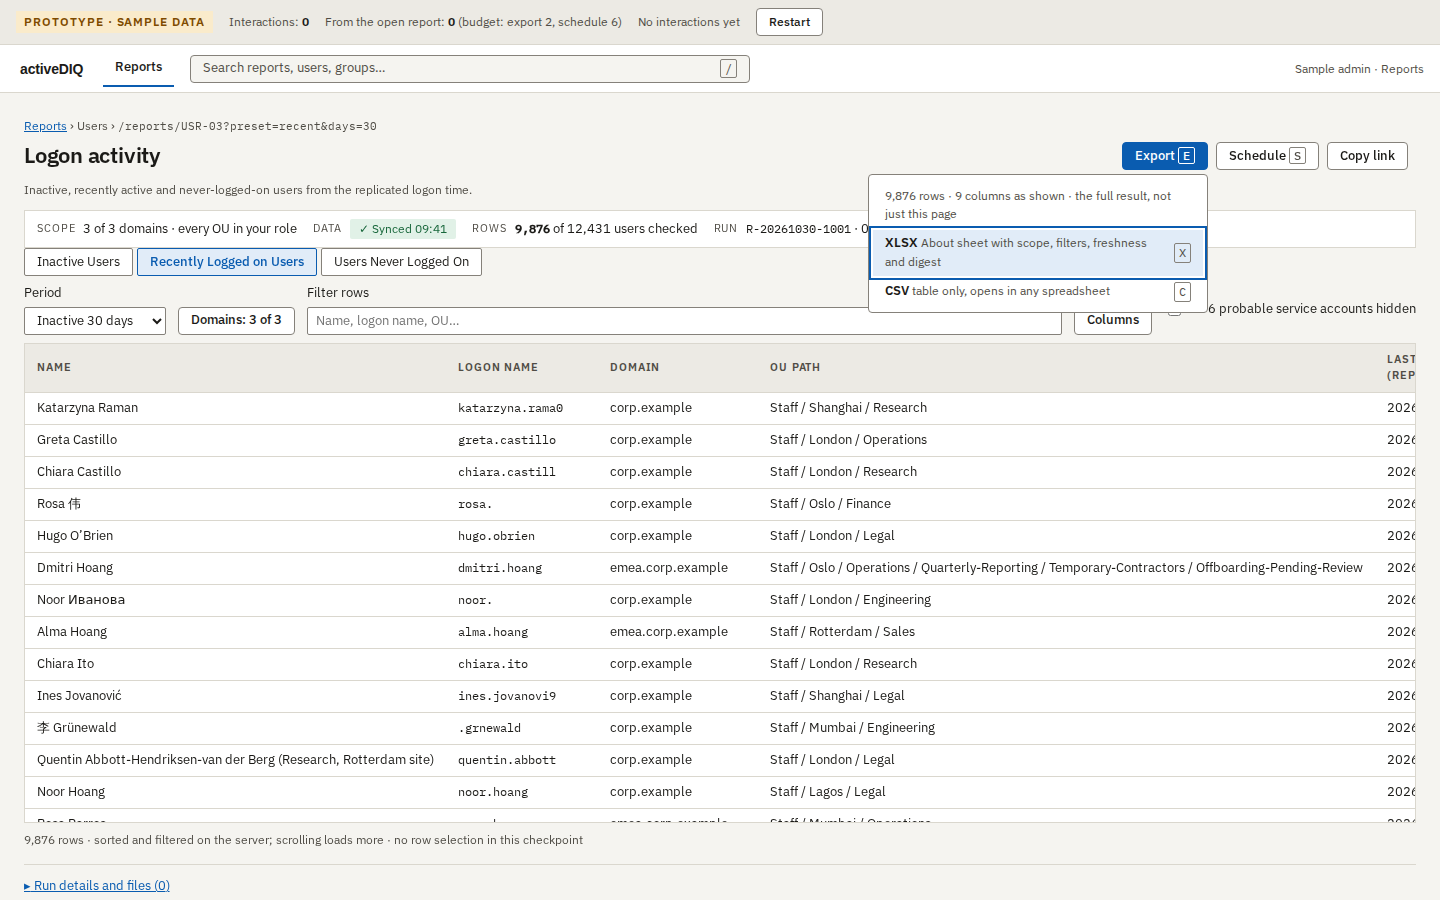
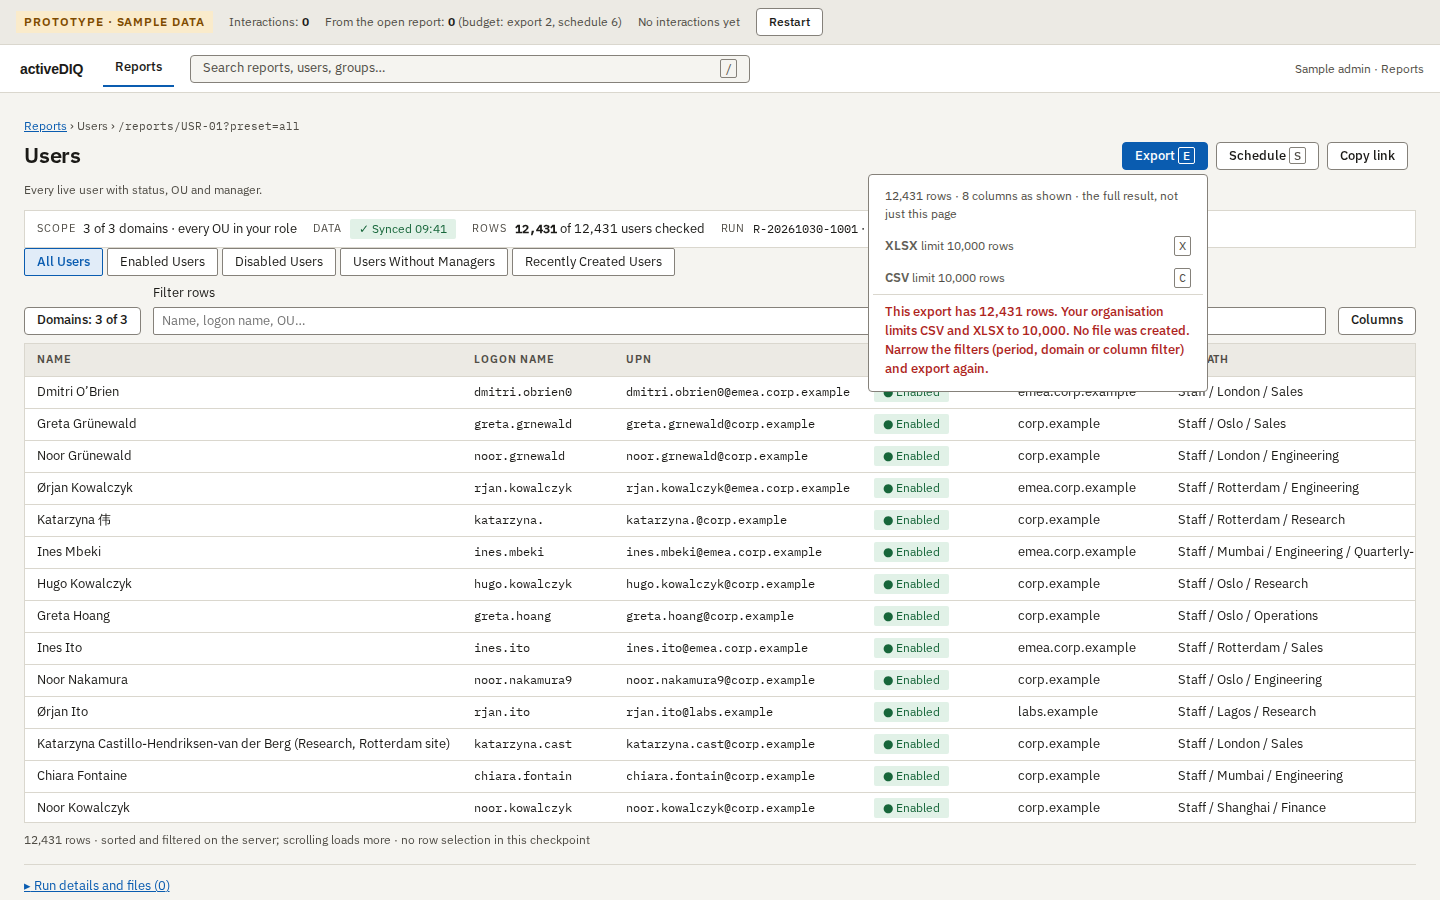
T-0867: draw row cap per format, truly disabled export/schedule without permission, doc and evidence fixes

diff --git a/web/src/prototype/reports/Reports.tsx b/web/src/prototype/reports/Reports.tsx
@@ -72,11 +72,15 @@ export interface Initial {
   readonly forbidden?: boolean;
   readonly unsupportedKind?: string;
 }
+export interface ExportCaps {
+  readonly CSV: number;
+  readonly XLSX: number;
+}
 export interface ReportsProps {
   readonly initial?: Initial;
   readonly perms?: Perms;
-  /** Row cap a tenant has lowered CSV and XLSX to (spec §8.3). Default is the 1,000,000 hard value. */
-  readonly exportCap?: number;
+  /** Row caps a tenant has lowered per format (spec §8.3). Default is the 1,000,000 hard value. */
+  readonly exportCaps?: ExportCaps;
   readonly latencyMs?: number;
 }
 
@@ -150,7 +154,7 @@ function isTyping(t: EventTarget | null): boolean {
 export function Reports({
   initial = {},
   perms = ALL_PERMS,
-  exportCap = 1_000_000,
+  exportCaps = { CSV: 1_000_000, XLSX: 1_000_000 },
   latencyMs = 220,
 }: ReportsProps) {
   const [view, setView] = useState(initial.view ?? "library");
@@ -259,6 +263,9 @@ export function Reports({
     const onKey = (e: KeyboardEvent) => {
       if (isTyping(e.target) || e.ctrlKey || e.metaKey || e.altKey || searchOpen || sheet) return;
       const k = e.key.toLowerCase();
+      // E and S follow their buttons: a disabled button means the key does nothing.
+      const btn = document.querySelector<HTMLButtonElement>(`button[aria-keyshortcuts="${k}"]`);
+      if (btn?.disabled) return;
       if (k === "/" && perms.run) {
         e.preventDefault();
         tick("/ search");
@@ -368,7 +375,7 @@ export function Reports({
             setScenario={setScenario}
             busy={busy}
             perms={perms}
-            exportCap={exportCap}
+            exportCaps={exportCaps}
             menu={menu}
             setMenu={setMenu}
             details={details}
@@ -512,7 +519,7 @@ function LibTabs(props: {
 function Forbidden() {
   return (
     <div className="diq-state diq-state--error" role="alert">
-      <p className="diq-state__title">You don’t have access to reports</p>
+      <h1 className="diq-state__title rp__h1">You don’t have access to reports</h1>
       <p>
         Your role does not include running reports (<span className="diq-mono">reports.run</span>
         ). Ask an administrator to add it to your role. Nothing here was changed.
@@ -777,7 +784,7 @@ interface ViewProps {
   readonly setScenario: (s: Scenario) => void;
   readonly busy: boolean;
   readonly perms: Perms;
-  readonly exportCap: number;
+  readonly exportCaps: ExportCaps;
   readonly menu: "export" | "columns" | "scope" | null;
   readonly setMenu: (m: "export" | "columns" | "scope" | null) => void;
   readonly details: boolean;
@@ -804,7 +811,7 @@ function ReportView(props: ViewProps) {
     setScenario,
     busy,
     perms,
-    exportCap,
+    exportCaps,
     menu,
     setMenu,
     details,
@@ -889,7 +896,6 @@ function ReportView(props: ViewProps) {
   const canSchedule = perms.schedule && !limited;
   const exportName = (ext: string) =>
     `${slugName(report.name)}-${slugName(preset?.name ?? "")}-20261030-0943Z.${ext}`;
-  const over = rows.length > exportCap;
 
   const doExport = (fmt: "CSV" | "XLSX") => {
     tick(fmt);
@@ -968,59 +974,59 @@ function ReportView(props: ViewProps) {
             <p className="pt__sub">{report.desc}</p>
           )}
         </div>
-        <div className="pt__actions" role="toolbar" aria-label="Report actions">
-          <div className="rp__pop">
+        <div className="rp__actwrap">
+          <div className="pt__actions" role="toolbar" aria-label="Report actions">
+            <div className="rp__pop">
+              <button
+                type="button"
+                className="btn btn--primary"
+                aria-haspopup="menu"
+                aria-expanded={menu === "export"}
+                aria-keyshortcuts="e"
+                disabled={!canExport}
+                aria-describedby={!perms.exportFiles ? "rp-perm-note" : undefined}
+                onClick={() => {
+                  tick("click Export");
+                  setMenu(menu === "export" ? null : "export");
+                }}
+              >
+                Export <span className="pt__kbd">E</span>
+              </button>
+              {menu === "export" ? (
+                <ExportMenu
+                  rows={rows.length}
+                  columns={columns.length}
+                  caps={exportCaps}
+                  ext={report.id === "GRP-02" && params.preset === "detailed"}
+                  expired={scenario === "expired"}
+                  onPick={doExport}
+                  onClose={() => setMenu(null)}
+                />
+              ) : null}
+            </div>
             <button
               type="button"
-              className="btn btn--primary"
-              aria-haspopup="menu"
-              aria-expanded={menu === "export"}
-              aria-keyshortcuts="e"
-              disabled={!canExport && perms.exportFiles}
-              aria-disabled={!perms.exportFiles ? true : undefined}
-              onClick={() => {
-                if (!perms.exportFiles) return;
-                tick("click Export");
-                setMenu(menu === "export" ? null : "export");
-              }}
+              className="btn"
+              aria-keyshortcuts="s"
+              disabled={!canSchedule}
+              aria-describedby={!perms.schedule ? "rp-perm-note" : undefined}
+              onClick={onSchedule}
             >
-              Export <span className="pt__kbd">E</span>
+              Schedule <span className="pt__kbd">S</span>
             </button>
-            {menu === "export" ? (
-              <ExportMenu
-                rows={rows.length}
-                columns={columns.length}
-                cap={exportCap}
-                over={over}
-                ext={report.id === "GRP-02" && params.preset === "detailed"}
-                expired={scenario === "expired"}
-                onPick={doExport}
-                onClose={() => setMenu(null)}
-              />
-            ) : null}
+            <CopyLink />
           </div>
-          <button
-            type="button"
-            className="btn"
-            aria-keyshortcuts="s"
-            disabled={!canSchedule && perms.schedule}
-            aria-disabled={!perms.schedule ? true : undefined}
-            onClick={() => perms.schedule && onSchedule()}
-          >
-            Schedule <span className="pt__kbd">S</span>
-          </button>
-          <CopyLink />
+          {!perms.exportFiles || !perms.schedule ? (
+            <p id="rp-perm-note" className="pt__sub rp__perm" role="note">
+              {!perms.exportFiles && !perms.schedule
+                ? "You can run this report but not export or schedule it. Ask an administrator for “export reports” and “schedule reports”."
+                : !perms.exportFiles
+                  ? "You can run this report but not export it. Ask an administrator for “export reports” (reports.export)."
+                  : "You can run and export this report but not schedule it. Ask an administrator for “schedule reports” (reports.schedule)."}
+            </p>
+          ) : null}
         </div>
       </div>
-      {!perms.exportFiles || !perms.schedule ? (
-        <p className="pt__sub rp__perm" role="note">
-          {!perms.exportFiles && !perms.schedule
-            ? "You can run this report but not export or schedule it. Ask an administrator for “export reports” and “schedule reports”."
-            : !perms.exportFiles
-              ? "You can run this report but not export it. Ask an administrator for “export reports” (reports.export)."
-              : "You can run and export this report but not schedule it. Ask an administrator for “schedule reports” (reports.schedule)."}
-        </p>
-      ) : null}
 
       <dl className="rp__strip" aria-label="This run">
         <div>
@@ -1264,17 +1270,16 @@ function Banners(props: {
 function ExportMenu(props: {
   readonly rows: number;
   readonly columns: number;
-  readonly cap: number;
-  readonly over: boolean;
+  readonly caps: ExportCaps;
   readonly ext: boolean;
   readonly expired: boolean;
   readonly onPick: (f: "CSV" | "XLSX") => void;
   readonly onClose: () => void;
 }) {
-  const { rows, columns, cap, over, ext, expired, onPick, onClose } = props;
+  const { rows, columns, caps, ext, expired, onPick, onClose } = props;
   const ref = useRef<HTMLDivElement>(null);
   useEffect(() => {
-    ref.current?.querySelector<HTMLElement>("[role=menuitem]")?.focus();
+    ref.current?.querySelector<HTMLElement>("[role=menuitem]:not([aria-disabled])")?.focus();
     const away = (e: MouseEvent) => {
       if (ref.current && !ref.current.parentElement?.contains(e.target as Node)) onClose();
     };
@@ -1291,16 +1296,18 @@ function ExportMenu(props: {
     },
     { f: "CSV" as const, key: "C", note: "table only, opens in any spreadsheet" },
   ];
+  const fmt = (n: number) => n.toLocaleString("en");
+  const overOf = (f: "CSV" | "XLSX") => rows > caps[f];
   const pick = (f: "CSV" | "XLSX") => {
-    if (over) return;
+    if (overOf(f)) return;
     onPick(f);
   };
+  const overFormats = items.filter((it) => overOf(it.f));
+  const okFormats = items.filter((it) => !overOf(it.f));
   return (
     <div
       ref={ref}
       className="rp__menu"
-      role="menu"
-      aria-label="Export format"
       onKeyDown={(e) => {
         const k = e.key.toLowerCase();
         if (e.key === "Escape") {
@@ -1327,30 +1334,38 @@ function ExportMenu(props: {
           This result has expired. Exporting runs the report again first and says so.
         </div>
       ) : null}
-      {items.map((it) => (
-        <button
-          key={it.f}
-          type="button"
-          role="menuitem"
-          className="rp__item"
-          aria-disabled={over ? true : undefined}
-          onClick={() => pick(it.f)}
-        >
-          <span>
-            <b>{it.f}</b>
-            <span className="pt__sub">
-              {" "}
-              {over ? `limit ${cap.toLocaleString("en")} rows` : it.note}
+      <div role="menu" aria-label="Export format">
+        {items.map((it) => (
+          <button
+            key={it.f}
+            type="button"
+            role="menuitem"
+            className="rp__item"
+            aria-disabled={overOf(it.f) ? true : undefined}
+            onClick={() => pick(it.f)}
+          >
+            <span>
+              <b>{it.f}</b>
+              <span className="pt__sub">
+                {" "}
+                {overOf(it.f) ? `limit ${fmt(caps[it.f])} rows` : it.note}
+              </span>
             </span>
-          </span>
-          <span className="pt__kbd">{it.key}</span>
-        </button>
-      ))}
-      {over ? (
+            <span className="pt__kbd">{it.key}</span>
+          </button>
+        ))}
+      </div>
+      {overFormats.length > 0 ? (
         <div className="rp__menunote rp__err" role="alert">
-          This export has {rows.toLocaleString("en")} rows. Your organisation limits CSV and XLSX to{" "}
-          {cap.toLocaleString("en")}. No file was created. Narrow the filters (period, domain or
-          column filter) and export again.
+          This export has {fmt(rows)} rows.{" "}
+          {overFormats.length === items.length
+            ? caps.CSV === caps.XLSX
+              ? `Your organisation limits CSV and XLSX to ${fmt(caps.CSV)}. `
+              : `Your organisation limits CSV to ${fmt(caps.CSV)} and XLSX to ${fmt(caps.XLSX)}. `
+            : `Your organisation limits ${overFormats[0]?.f} to ${fmt(caps[overFormats[0]?.f ?? "CSV"])}. `}
+          {overFormats.length === items.length
+            ? "No file was created. Narrow the filters (period, domain or column filter) and export again."
+            : `No file was created. ${okFormats[0]?.f} allows ${fmt(caps[okFormats[0]?.f ?? "CSV"])} rows: choose ${okFormats[0]?.f} (${okFormats[0]?.key}), or narrow the filters (period, domain or column filter).`}
         </div>
       ) : null}
     </div>

diff --git a/web/src/prototype/reports/Reports.stories.tsx b/web/src/prototype/reports/Reports.stories.tsx
@@ -164,8 +164,14 @@ export const ExportMenuEvidencePack: Story = {
 };
 export const ExportOverTenantLimit: Story = {
   args: {
-    exportCap: 10_000,
-    initial: { view: "report", report: "USR-03", preset: "recent", menu: "export" },
+    exportCaps: { CSV: 10_000, XLSX: 10_000 },
+    initial: { view: "report", report: "USR-01", preset: "all", menu: "export" },
+  },
+};
+export const ExportOverOneFormatLimit: Story = {
+  args: {
+    exportCaps: { CSV: 1_000_000, XLSX: 10_000 },
+    initial: { view: "report", report: "USR-01", preset: "all", menu: "export" },
   },
 };
 export const RunDetailsFiles: Story = {

diff --git a/web/src/prototype/reports/reports.css b/web/src/prototype/reports/reports.css
@@ -53,8 +53,16 @@
 .rp__foot {
   margin: var(--diq-space-2) 0 0;
 }
+.rp__actwrap {
+  display: flex;
+  flex-direction: column;
+  align-items: flex-end;
+  gap: var(--diq-space-2);
+  max-width: 48ch;
+}
 .rp__perm {
-  margin: var(--diq-space-2) 0 0;
+  margin: 0;
+  text-align: right;
 }
 .rp__copymsg {
   max-width: 28ch;
@@ -479,4 +487,8 @@
 }
 .rp__toast--ok {
   border-left-color: var(--diq-ok);
+}
+
+.rp__h1 {
+  margin: 0 0 var(--diq-space-2);
 }

diff --git a/knowledge/product/design-system/reports-2a-flows.md b/knowledge/product/design-system/reports-2a-flows.md
@@ -12,7 +12,7 @@ decisions: [D-0005, D-0012]
 
 **What it is.** The screen-level design of the 2a report flows for [reports-2a.md](../specs/reports-2a.md) §5, §6.2, §8.2 to §8.4, as a clickable Storybook prototype on the Ledger tokens plus this note. The frontend tickets build from it; nothing is left to decide except the items under *Open items*. Every name, count, address and DC in the prototype is **sample data** (`web/src/prototype/reports/fixtures.ts`), labelled "Prototype · sample data" on screen. The prototype is not part of the console bundle.
 
-**Run it.** `cd web && npm run storybook`, then **Prototype / Reports 2a / End To End**. Press `/`, type `domain admins nested`, Enter, `E`, `X` (T19). For T20: `/`, `password never expires`, Enter, `S`, pick **Monthly**, type a recipient, Save. The counter at the top counts interactions in total and "from the open report". Story ids are `prototype-reports-2a--<kebab-name>`. 47 stories; axe: 0 violations on all of them. Screenshots of 49 states are in `factory/demos/evidence/T-0867/<kebab-name>.png`.
+**Run it.** `cd web && npm run storybook`, then **Prototype / Reports 2a / End To End**. Press `/`, type `domain admins nested`, Enter, `E`, `X` (T19). For T20: `/`, `password never expires`, Enter, `S`, pick **Monthly**, type a recipient, Save. The counter at the top counts interactions in total and "from the open report". Story ids are `prototype-reports-2a--<kebab-name>`. 49 stories; axe: 0 violations on all of them. 51 screenshots (48 stories plus the end states `T19-export-done`, `T20-saved` and `schedules-bulk-pause-confirm`) are in `factory/demos/evidence/T-0867/<kebab-name>.png`.
 
 **No token change.** `git diff web/src/ds/tokens.css` is empty and `reports.css` contains no hex or `rgb` value. Where a value was missing it is listed as a component gap below, not invented.
 
@@ -76,7 +76,7 @@ Layout is one page: a report header, a filter bar, the grid, and layers (search 
 | **Service accounts are hidden by default** with a visible "N probable service accounts hidden · Show" toggle (E2). | Admin never ticks them off one by one. |
 | **Grid** is windowed (22 DOM rows for a 3,000-member group; 12,000-user sample), sticky header, sortable, column chooser as a popover, 40+ character names truncated with full text in `title`. **No row selection at 2a** (FR-13). | Dense tables are a feature; selection arrives with 2b actions. |
 | **Group member reports hide the Domains control** (the group fixes the domain set). | A control that does nothing is a dead button. |
-| **Export menu lists formats that exist** (XLSX default, CSV). Over a tenant row cap the format is `aria-disabled` and the menu says *"No file was created."* | Never truncates silently (§8.3). |
+| **Export menu lists formats that exist** (XLSX default, CSV). A format over its tenant row cap is `aria-disabled` with its limit shown; the menu says *"No file was created."* and, when the other format is within its cap, names it ("CSV allows 1,000,000 rows: choose CSV (C)"). Formats can have different caps because a tenant may lower each one separately (spec §8.3). | Never truncates silently (§8.3); refusal always offers a narrower filter or another format. |
 | **The schedule sheet is the Action preview** (ADR-0005 rule 10): what will run, who receives it, "recipients receive what you can see", Save is the confirm. Nothing precedes it. | A separate preview/confirm screen would add 1 to 2 interactions to a rare task for no extra information. |
 | **Preset is not preselected** in the sheet. | A silent default schedule is the wrong kind of speed for something that e-mails data; counted as 1 click. |
 | **Schedules list**: filter All / Needs attention / Paused, row selection with bulk Pause and Resume and an **inline** confirmation naming how many will change and how many are skipped (no modal). Row opens a detail sheet with per-recipient delivery. | Bulk wherever a single action exists. |
@@ -91,9 +91,9 @@ All are stories; the screenshot is `factory/demos/evidence/T-0867/<story>.png`. 
 | **Empty scope** (role has a `reports.run` but no scope) | Title "Your role covers no directory objects". Body: "Ask an administrator to grant a scope. There are zero rows because nothing is in your scope; this is not an error and nothing is broken." Header chip "○ No data in scope". Button "Copy a request for your administrator". Zero rows, never an error. | `empty-scope` | Spec |
 | **Expired result** (result older than the 7-day retention) | Title "This result has expired". Body: "Results are kept 7 days; this one was run on 23 Oct at 09:43. It is not shown as current. Run it again with the same settings to see today's data. Exporting does this for you first." Primary button *Run again with the same settings*. Header chip "○ Expired: was synced 09:41 on 23 Oct". | `expired-result`, `expired-result-export-reruns` | Designed (spec: "expired result") |
 | **Stale data** | Banner (warn, glyph ⚠, role=status): "Stale data. The last successful sync of emea.corp.example was 3 hours ago (06:41) because that connection is waiting for a full resync. This report ran on what activeDIQ last saw. Exports and scheduled deliveries carry this warning." Header chip "⚠ Stale: last sync 3 h ago (emea.corp.example)". Rows are shown. | `stale-data` | Spec §5, §8.2 |
-| **Unsupported scope kind** | Title "Reports can't use your role's scope yet". Body: "Your role is scoped by an Entra administrative unit (or other unsupported kind), which reports don't support at this stage. Reports return nothing rather than guess, so there are zero rows. Ask an administrator to scope your role by domain or OU." Button "Copy a request for your administrator". Fails closed. | `unsupported-scope-kind`, `unsupported-scope-entra` | Designed |
+| **Unsupported scope kind** | Title "Reports can’t use your role’s scope yet". Body names the kind, one variant per story: **group members** — "Your role is scoped by group members, which reports don’t support at this stage. Reports return nothing rather than guess, so there are zero rows. Ask an administrator to scope your role by domain or OU." (`unsupported-scope-kind`); **Entra administrative unit** — "Your role is scoped by an Entra administrative unit, which reports don’t support at this stage. Reports return nothing rather than guess, so there are zero rows. Ask an administrator to scope your role by domain or OU." (`unsupported-scope-entra`). Button "Copy a request for your administrator". Fails closed. | `unsupported-scope-kind`, `unsupported-scope-entra` | Designed |
 | **No permission: no `reports.run`** | No Reports entry, no report hits in search. A deep link shows "You don't have access to reports. Your role does not include running reports (`reports.run`). Ask an administrator to add it to your role. Nothing here was changed." | `no-reports-permission`, `search-no-permission` | Spec (no entry, no hits); deep-link wording designed |
-| **No permission: run but not export/schedule** | The Export and Schedule buttons stay visible and `aria-disabled`; `E` and `S` do nothing. A note under them (role=note) says: "You can run this report but not export or schedule it. Ask an administrator for “export reports” and “schedule reports”." (one-permission variants name `reports.export` or `reports.schedule`). | `no-export-or-schedule-permission` | Designed |
+| **No permission: run but not export/schedule** | The Export and Schedule buttons stay visible and are truly `disabled` (same grey disabled treatment as in `empty-scope`, never a live-looking button that does nothing); `E` and `S` do nothing because they follow their buttons. A note directly under the buttons (role=note, linked by `aria-describedby`) says: "You can run this report but not export or schedule it. Ask an administrator for “export reports” and “schedule reports”." One-permission variants: "You can run this report but not export it. Ask an administrator for “export reports” (reports.export)." and "You can run and export this report but not schedule it. Ask an administrator for “schedule reports” (reports.schedule)." | `no-export-or-schedule-permission` | Designed |
 | Not synced yet | Banner "Not synced yet: labs.example. That domain has not finished its first sync, so it is skipped. The rows below cover the other 2 of 3 domains." | `not-synced-yet` | Spec |
 | Run failed | Title "This run failed: the query timed out". Body: "The database did not answer within 30 s. Nothing was changed and no file or e-mail was sent. Run R-… is kept with this reason." Button *Retry* (new run). The reason is the typed reason from the run record; only this sample is drawn. | `run-failed` | Spec (typed reason + retry); wording designed |
 | Run cancelled | Title "Run cancelled". Body: "Nothing was changed. No partial result is kept as current." Button *Run again*. | (Cancel run button on `per-dc-running`) | Designed |
@@ -102,7 +102,8 @@ All are stories; the screenshot is `factory/demos/evidence/T-0867/<story>.png`. 
 | Per-DC running | "Reading domain controllers…" with progress and "This runs in the background; you can leave the page and it keeps going." | `per-dc-running` | Spec §6.5 |
 | Per-DC partial | Banner "Read from 5 of 6 domain controllers. dc-ams-03.emea.corp.example did not answer (LDAP timeout after 30 s). Dates are the latest logon found, "at least"; "Not confirmed" means none of the 5 DCs that answered recorded a logon. It does not mean the account never logged on." | `per-dc-partial` | Spec |
 | Per-DC over read cap | "This run is too large to start. It would read 52,000 accounts from 6 domain controllers (312,000 reads). The limit is 250,000 per run, to protect the DCs. Nothing was read. Narrow the domains, the period or the filter, then run it again." | `per-dc-over-read-cap` | Designed |
-| Export over tenant row limit | In the menu: "This export has 12,431 rows. Your organisation limits CSV and XLSX to 10,000. No file was created. Narrow the filters (period, domain or column filter) and export again." | `export-over-tenant-limit` | Spec §8.3 |
+| Export over tenant row limit, both formats | In the menu, both formats disabled with "limit 10,000 rows" and: "This export has 12,431 rows. Your organisation limits CSV and XLSX to 10,000. No file was created. Narrow the filters (period, domain or column filter) and export again." (Users, All Users, 12,431 rows, sample caps lowered to 10,000.) | `export-over-tenant-limit` | Spec §8.3 |
+| Export over limit, one format | XLSX disabled; CSV still works. "This export has 12,431 rows. Your organisation limits XLSX to 10,000. No file was created. CSV allows 1,000,000 rows: choose CSV (C), or narrow the filters (period, domain or column filter)." Focus lands on the first format that works. | `export-over-one-format-limit` | Spec §8.3 ("a narrower filter or another format") |
 | Expired result, then export | Menu note "This result has expired. Exporting runs the report again first and says so."; toast says the file carries the new time. | `expired-result-export-reruns` | Designed |
 | External recipient | Required checkbox "Data leaves your organisation: <address>. I confirm." | `schedule-external-confirm` | Spec §8.4 |
 | External recipient not allowed | Save refused, nothing saved: "You can't send to <address>: it is outside your organisation's allowed domains and you don't have permission to deliver outside it (reports.deliver.external). Remove it, or ask an administrator." | `schedule-external-not-allowed` | Spec §8.4; wording designed |
